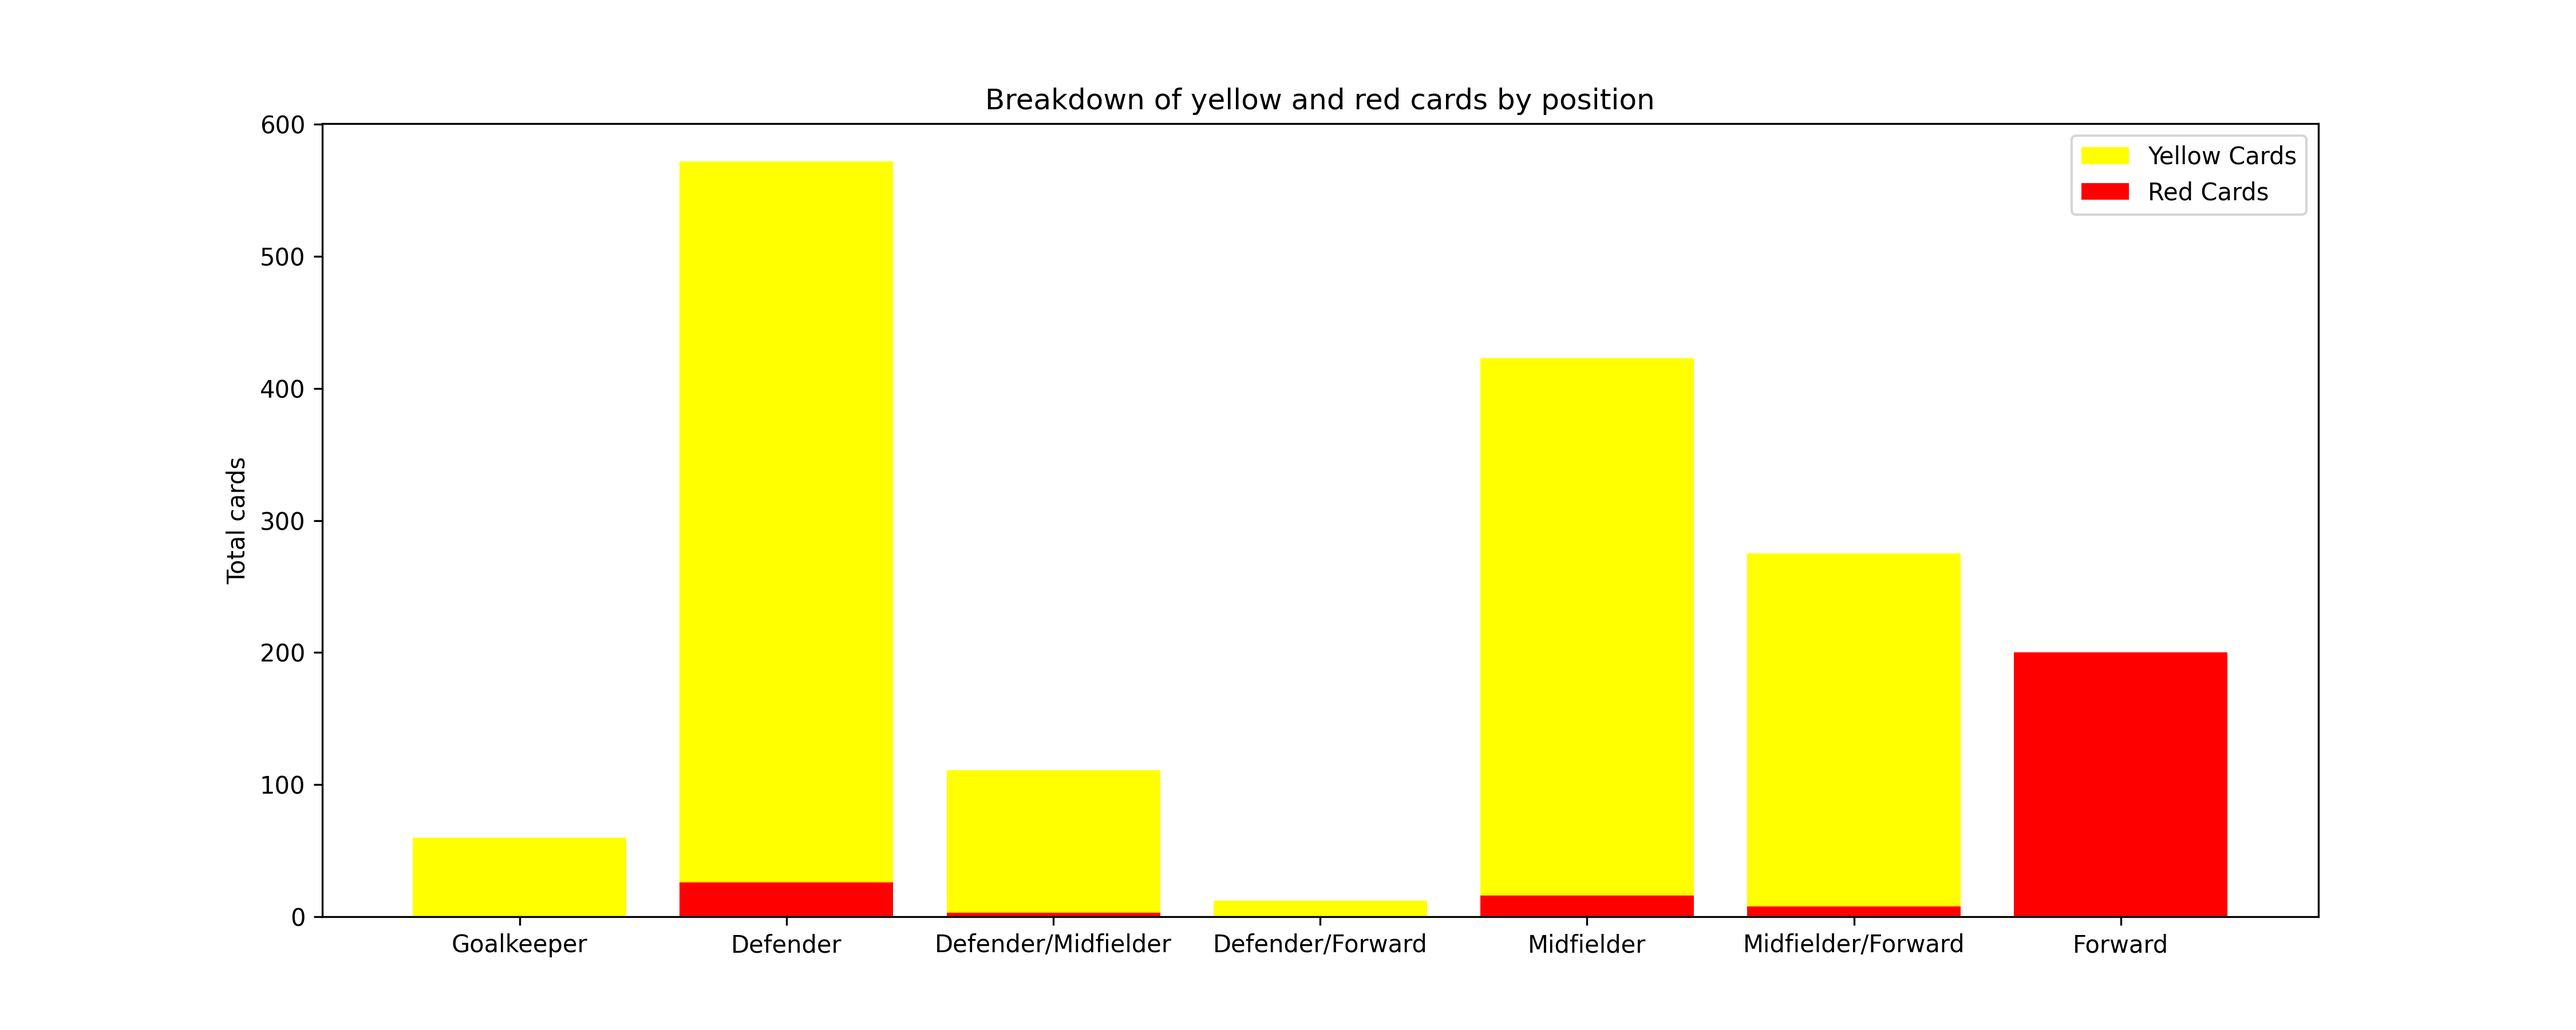
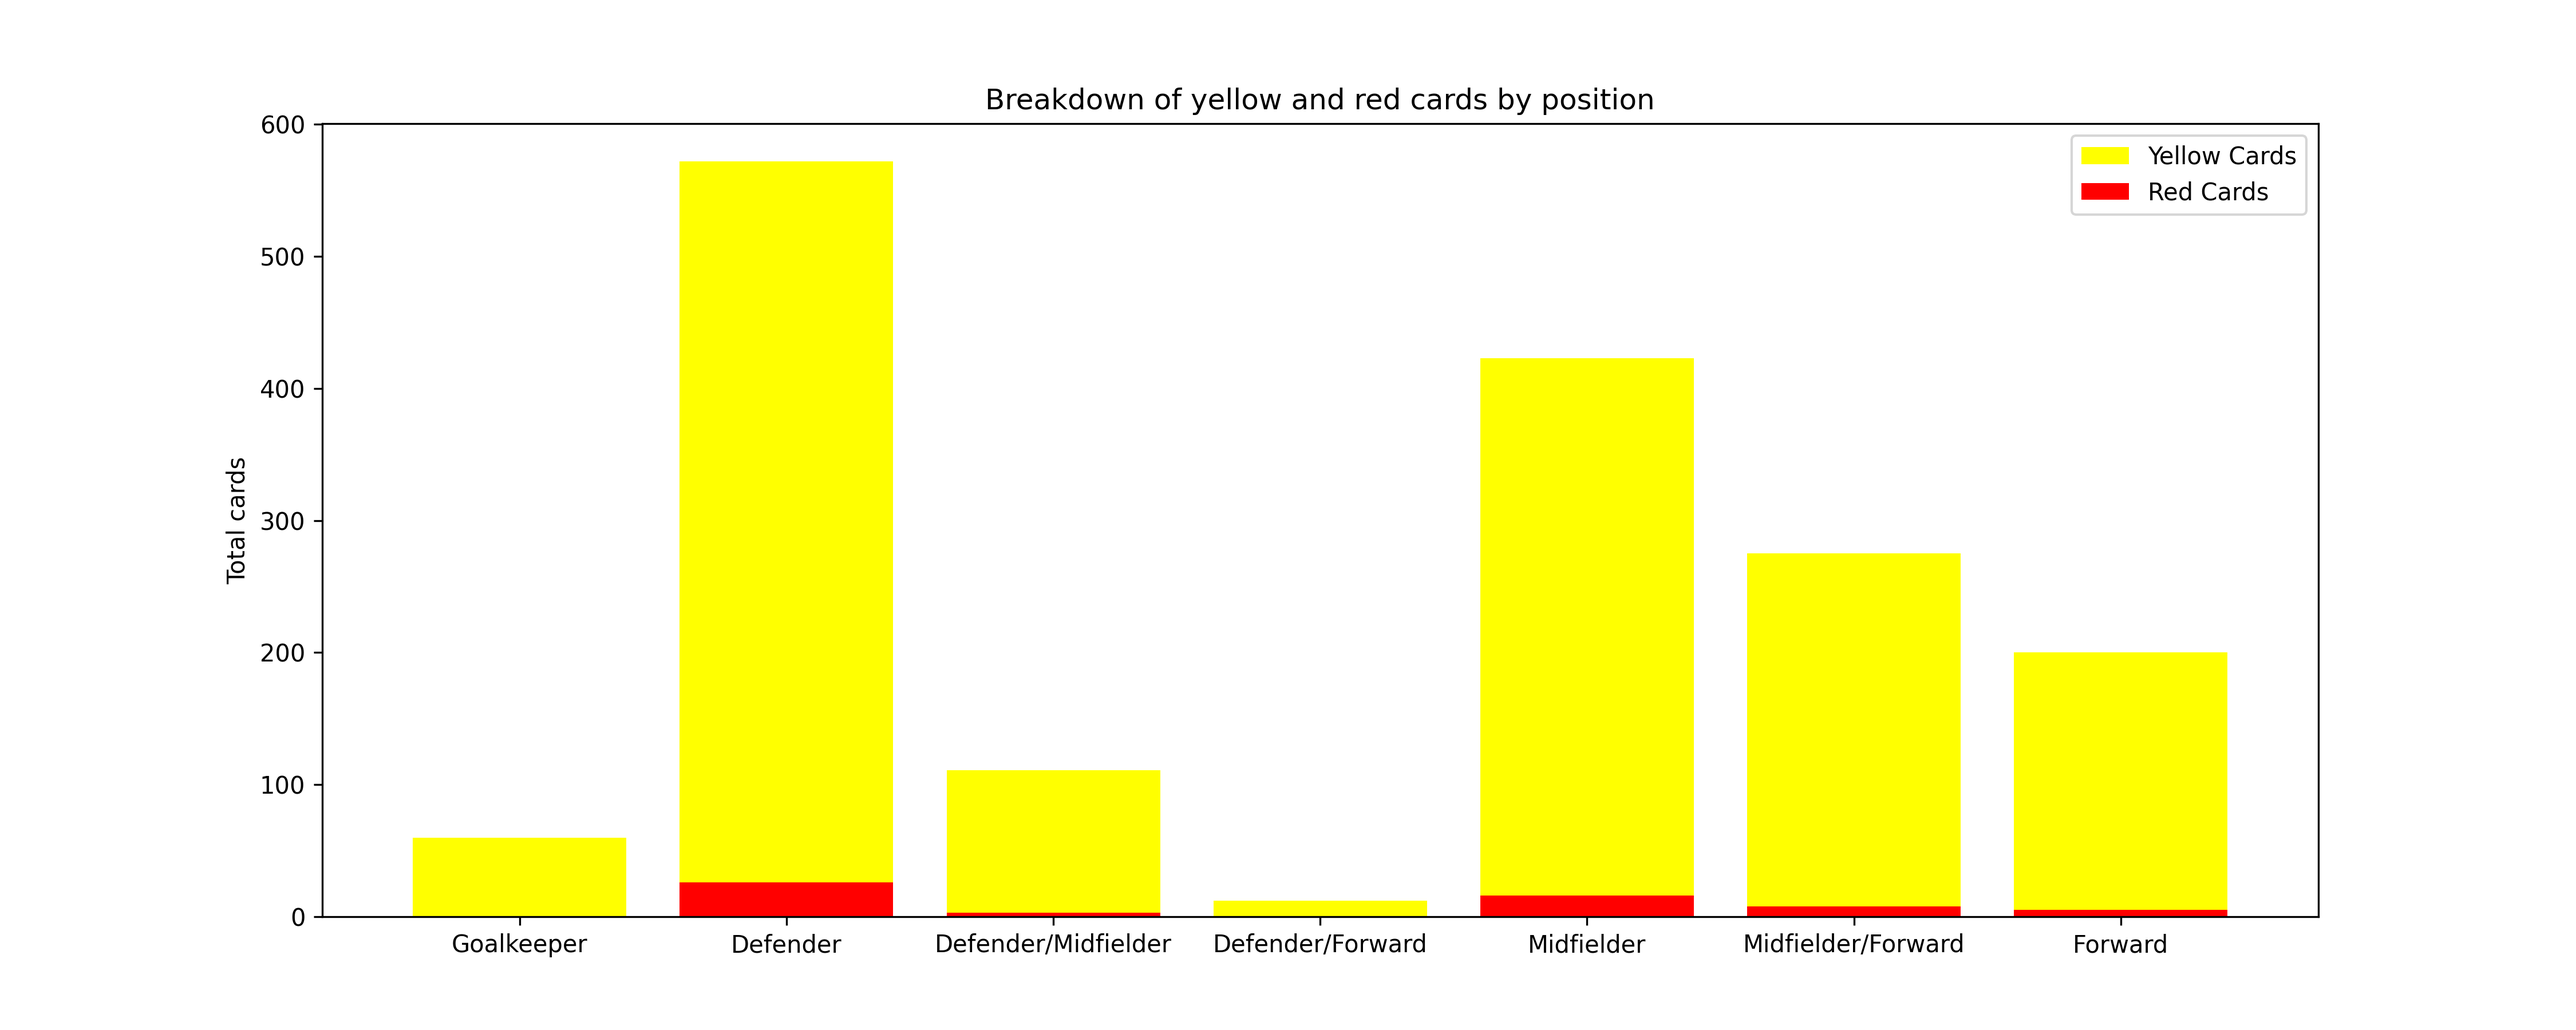
Accidentally added yellow cards as red cards for Forwards. Error resolved.

Changed region(s): [[0.7778, 0.6222, 0.8711, 0.9022]]

diff --git a/cards_comparison.py b/cards_comparison.py
@@ -58,7 +58,7 @@ red_cards.append(reds_mffw)
 
 forward = df[df['Pos']=='FW']
 yellows_fw=np.sum(forward['CrdY'])
-reds_fw =np.sum(forward['CrdY'])
+reds_fw =np.sum(forward['CrdR'])
 yellow_cards.append(yellows_fw)
 red_cards.append(reds_fw)
 
